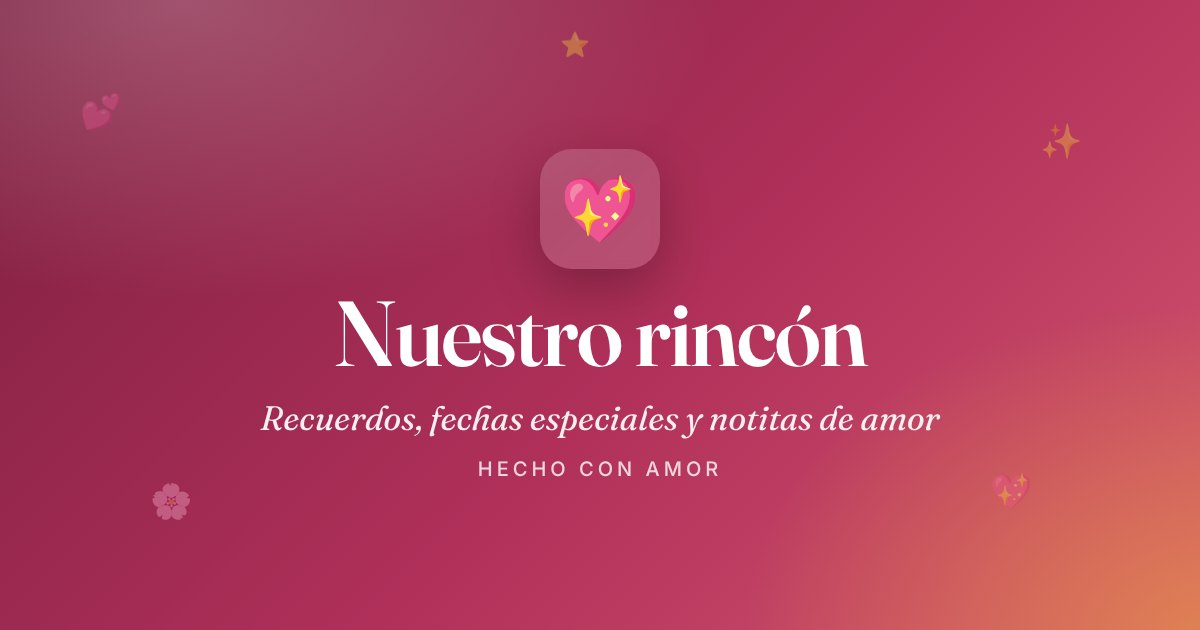
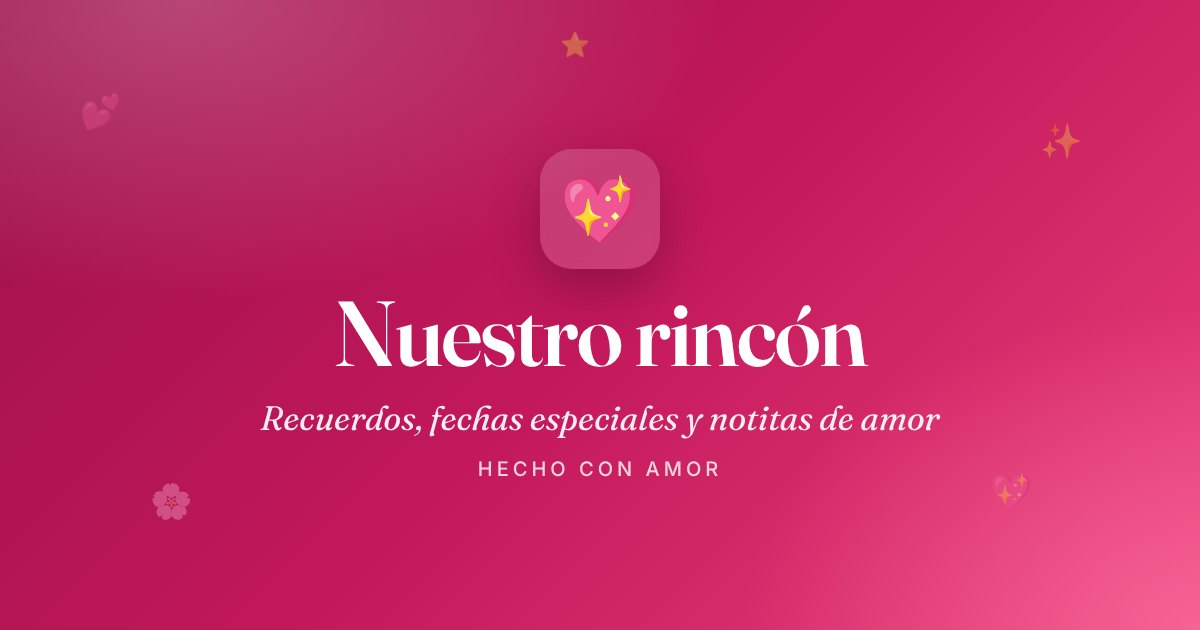
feat(theme): bring back the soft pink palette from version 1 as default
The default theme now uses the version 1 colors (pastel pink background
with a soft gradient, fuchsia primary, plum text) and always starts in
light mode. Palettes live in domain/palettes.ts with contrast tests so
every option stays readable. Static tokens, manifest, icons and the
social preview image use the same colors for the first paint.

diff --git a/src/domain/palettes.ts b/src/domain/palettes.ts
@@ -1,0 +1,94 @@
+/**
+ * Paletas de colores. Camila puede elegir una (o ajustar sus colores) desde
+ * su panel; tipografías, bordes, modo oscuro y efectos siguen siendo cosa del
+ * super administrador.
+ */
+import type { ThemeTokens } from "./types";
+
+export const PALETTE_KEYS = ["primary", "primaryContrast", "accent", "background", "surface", "text", "muted"] as const;
+export type PaletteKey = (typeof PALETTE_KEYS)[number];
+export type PaletteColors = Pick<ThemeTokens, PaletteKey>;
+
+export interface Palette {
+  id: string;
+  name: string;
+  description: string;
+  colors: PaletteColors;
+}
+
+/** Los colores suaves de la primera versión de la página. Es la paleta por defecto. */
+export const V1_PALETTE: Palette = {
+  id: "rosa-suave",
+  name: "Rosa suave",
+  description: "La de la primera versión: rosado pastel y fucsia.",
+  colors: {
+    primary: "#c2185b",
+    primaryContrast: "#ffffff",
+    accent: "#ff4081",
+    background: "#ffe6ec",
+    surface: "#fff7f9",
+    text: "#880e4f",
+    muted: "#ad1457",
+  },
+};
+
+export const PALETTES: readonly Palette[] = [
+  V1_PALETTE,
+  {
+    id: "durazno",
+    name: "Durazno",
+    description: "Cálida y suave, como un atardecer.",
+    colors: { primary: "#b9473d", primaryContrast: "#ffffff", accent: "#f4a261", background: "#fff1ea", surface: "#fffaf7", text: "#6b2e26", muted: "#8f4c42" },
+  },
+  {
+    id: "lavanda",
+    name: "Lavanda",
+    description: "Lila tranquila con toques rosados.",
+    colors: { primary: "#7e4fb5", primaryContrast: "#ffffff", accent: "#f19ec2", background: "#f6f0ff", surface: "#fdfbff", text: "#3d2563", muted: "#66558a" },
+  },
+  {
+    id: "menta",
+    name: "Menta",
+    description: "Verde fresco con detalles en rosa.",
+    colors: { primary: "#23735f", primaryContrast: "#ffffff", accent: "#f2a5b8", background: "#ecf8f3", surface: "#fbfefd", text: "#1d4a3f", muted: "#456f63" },
+  },
+  {
+    id: "cielo",
+    name: "Cielo",
+    description: "Azul claro y sereno.",
+    colors: { primary: "#2f6aad", primaryContrast: "#ffffff", accent: "#f7b2c4", background: "#eef5fd", surface: "#fbfdff", text: "#1f3a5c", muted: "#4d6787" },
+  },
+  {
+    id: "rosa-vino",
+    name: "Rosa vino",
+    description: "Más elegante y sobria.",
+    colors: { primary: "#b0305a", primaryContrast: "#ffffff", accent: "#e8a33d", background: "#fff8f6", surface: "#ffffff", text: "#2b1720", muted: "#7a5c66" },
+  },
+  {
+    id: "medianoche",
+    name: "Medianoche",
+    description: "Oscura, para ver de noche.",
+    colors: { primary: "#e05a84", primaryContrast: "#1c0d15", accent: "#f0c674", background: "#16121c", surface: "#211b29", text: "#f4eaf0", muted: "#b3a2ad" },
+  },
+];
+
+export function pickPalette(theme: ThemeTokens): PaletteColors {
+  return Object.fromEntries(PALETTE_KEYS.map((k) => [k, theme[k]])) as PaletteColors;
+}
+
+/** Aplica sólo los colores; conserva tipografías, bordes y modo oscuro. */
+export function applyPalette(theme: ThemeTokens, colors: Partial<PaletteColors>): ThemeTokens {
+  return { ...theme, ...colors };
+}
+
+/** ¿Qué paleta lista coincide con los colores actuales? (null = personalizada) */
+export function matchPalette(theme: ThemeTokens): Palette | null {
+  return PALETTES.find((p) => PALETTE_KEYS.every((k) => p.colors[k].toLowerCase() === theme[k].toLowerCase())) ?? null;
+}
+
+/** ¿El cambio entre dos temas toca algo más que los colores? */
+export function changesBeyondPalette(before: ThemeTokens, after: ThemeTokens): boolean {
+  return (Object.keys(after) as (keyof ThemeTokens)[]).some(
+    (k) => !(PALETTE_KEYS as readonly string[]).includes(k) && after[k] !== before[k],
+  );
+}

diff --git a/src/domain/palettes.test.ts b/src/domain/palettes.test.ts
@@ -1,0 +1,35 @@
+import { describe, expect, it } from "vitest";
+import { contrastRatio } from "@/core/validation";
+import { DEFAULT_THEME } from "./defaults";
+import { applyPalette, changesBeyondPalette, matchPalette, PALETTES, V1_PALETTE } from "./palettes";
+
+describe("paletas", () => {
+  it("el tema de fábrica usa la paleta suave de la versión 1 en modo claro", () => {
+    expect(matchPalette(DEFAULT_THEME)?.id).toBe(V1_PALETTE.id);
+    expect(DEFAULT_THEME.background).toBe("#ffe6ec");
+    expect(DEFAULT_THEME.darkMode).toBe("light");
+  });
+
+  it.each(PALETTES.map((p) => [p.name, p] as const))("%s se lee bien", (_name, palette) => {
+    const c = palette.colors;
+    expect(contrastRatio(c.text, c.background)).toBeGreaterThanOrEqual(4.5);
+    expect(contrastRatio(c.text, c.surface)).toBeGreaterThanOrEqual(4.5);
+    expect(contrastRatio(c.muted, c.background)).toBeGreaterThanOrEqual(4.5);
+    expect(contrastRatio(c.primaryContrast, c.primary)).toBeGreaterThanOrEqual(4.5);
+  });
+
+  it("aplicar una paleta sólo cambia colores", () => {
+    const custom = { ...DEFAULT_THEME, fontDisplay: "Lora", radius: 6 };
+    const lavanda = PALETTES.find((p) => p.id === "lavanda")!;
+    const next = applyPalette(custom, lavanda.colors);
+    expect(next.fontDisplay).toBe("Lora");
+    expect(next.radius).toBe(6);
+    expect(matchPalette(next)?.id).toBe("lavanda");
+    expect(changesBeyondPalette(custom, next)).toBe(false);
+    expect(changesBeyondPalette(custom, { ...next, radius: 10 })).toBe(true);
+  });
+
+  it("colores sueltos no coinciden con ninguna paleta", () => {
+    expect(matchPalette({ ...DEFAULT_THEME, accent: "#123456" })).toBeNull();
+  });
+});

diff --git a/src/domain/defaults.ts b/src/domain/defaults.ts
@@ -5,34 +5,21 @@ import {
   SECTION_ANIMATIONS, type EffectsConfig, type Section, type SectionAnimation,
   type SectionContentMap, type SectionKind, type ThemeTokens,
 } from "./types";
+import { V1_PALETTE } from "./palettes";
 
+/** Tema de fábrica: los colores suaves de la versión 1, siempre en modo claro. */
 export const DEFAULT_THEME: ThemeTokens = {
-  primary: "#b0305a",
-  primaryContrast: "#ffffff",
-  accent: "#e8a33d",
-  background: "#fff8f6",
-  surface: "#ffffff",
-  text: "#2b1720",
-  muted: "#7a5c66",
+  ...V1_PALETTE.colors,
   fontDisplay: "Fraunces",
   fontBody: "Inter",
   radius: 18,
-  darkMode: "auto",
+  darkMode: "light",
 };
 
 export const DEFAULT_EFFECTS: EffectsConfig = {
   floating: { enabled: true, emojis: ["❤", "💖", "🌸", "🌷", "✨"], density: 14 },
   cursorHearts: false,
   reduceOnMobile: true,
-};
-
-/** Paletas listas para el editor de apariencia. */
-export const THEME_PRESETS: Record<string, Partial<ThemeTokens>> = {
-  "Rosa vino": { primary: "#b0305a", accent: "#e8a33d", background: "#fff8f6", text: "#2b1720", muted: "#7a5c66" },
-  "Lavanda": { primary: "#6b4fa0", accent: "#e88aa8", background: "#faf7ff", text: "#231a33", muted: "#6c6180" },
-  "Atardecer": { primary: "#c4512b", accent: "#f2b544", background: "#fff9f2", text: "#2e1a12", muted: "#7f6152" },
-  "Bosque": { primary: "#2f6b4f", accent: "#d9a441", background: "#f6faf6", text: "#16241d", muted: "#5b6f63" },
-  "Medianoche": { primary: "#e05a84", accent: "#f0c674", background: "#16121c", surface: "#211b29", text: "#f4eaf0", muted: "#b3a2ad" },
 };
 
 export const FONT_OPTIONS = {

diff --git a/src/styles/base/_tokens.scss b/src/styles/base/_tokens.scss
@@ -6,13 +6,15 @@
 // (state/ThemeController.tsx), por eso no son variables Sass.
 // ==========================================================================
 :root {
-  --c-primary: #b0305a;
+  // Paleta "Rosa suave" de la versión 1 (domain/palettes.ts → V1_PALETTE),
+  // para que el primer pintado ya tenga los colores correctos.
+  --c-primary: #c2185b;
   --c-primary-contrast: #ffffff;
-  --c-accent: #e8a33d;
-  --c-bg: #fff8f6;
-  --c-surface: #ffffff;
-  --c-text: #2b1720;
-  --c-muted: #7a5c66;
+  --c-accent: #ff4081;
+  --c-bg: #ffe6ec;
+  --c-surface: #fff7f9;
+  --c-text: #880e4f;
+  --c-muted: #ad1457;
 
   // Derivados con color-mix: cualquier paleta del panel sigue funcionando.
   --c-primary-soft: #{tint(var(--c-primary), 12%, var(--c-surface))};
@@ -20,6 +22,8 @@
   --c-border: #{tint(var(--c-text), 12%)};
   --c-border-strong: #{tint(var(--c-text), 22%)};
   --c-surface-2: #{tint(var(--c-text), 4%, var(--c-surface))};
+  // Fondo en degradado suave, como en la versión 1.
+  --c-bg-deep: #{tint(var(--c-primary), 6%, var(--c-bg))};
   --c-success: #2e7d5b;
   --c-danger: #c0392b;
   --c-warning: #b7791f;

diff --git a/index.html b/index.html
@@ -3,7 +3,7 @@
   <head>
     <meta charset="UTF-8" />
     <meta name="viewport" content="width=device-width, initial-scale=1.0, viewport-fit=cover" />
-    <meta name="theme-color" content="#b0305a" />
+    <meta name="theme-color" content="#c2185b" />
     <title>Nuestro rincón</title>
     <meta name="description" content="Nuestros recuerdos, fechas especiales, notitas y chat: una página hecha con amor." />
     <!-- El build ajusta robots, canónica e imagen absoluta según VITE_SITE_URL y VITE_SEO_INDEX. -->

diff --git a/src/styles/base/_reset.scss b/src/styles/base/_reset.scss
@@ -14,7 +14,8 @@ html {
 body {
   margin: 0;
   min-height: 100dvh;
-  background: var(--c-bg);
+  background-color: var(--c-bg);
+  background-image: linear-gradient(180deg, var(--c-bg), var(--c-bg-deep));
   color: var(--c-text);
   font-family: var(--font-body);
   font-size: 1rem;
